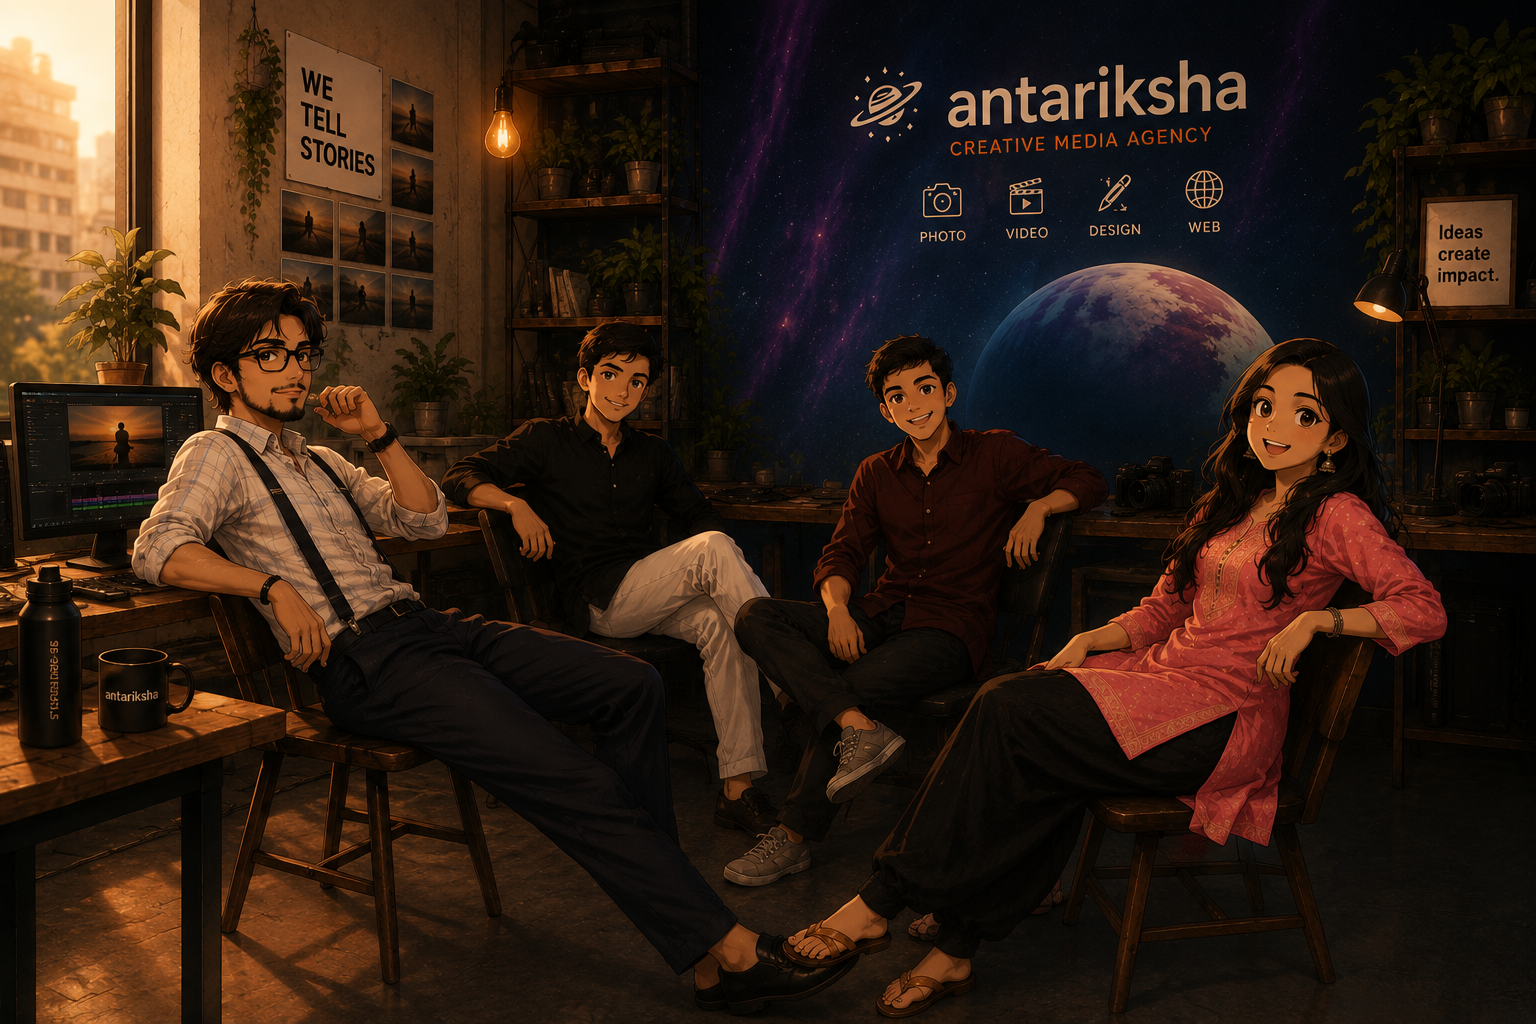
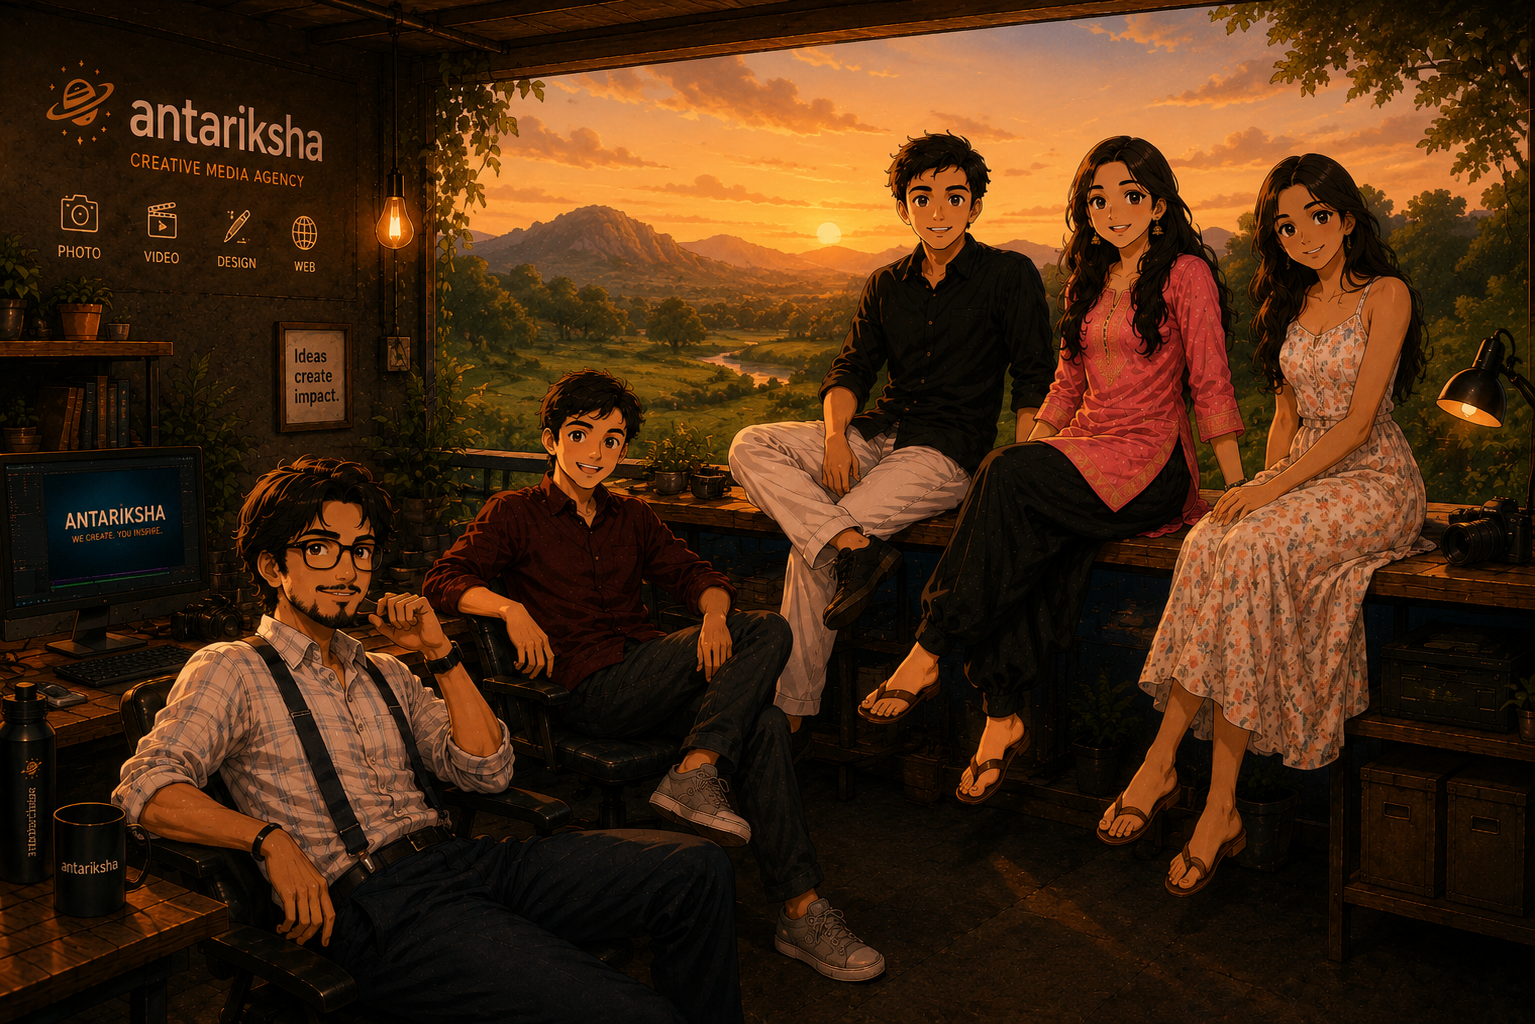
feat: add disha panel, update hero images and team page

diff --git a/app/team/page.tsx b/app/team/page.tsx
@@ -113,6 +113,34 @@ const dipangshuRows: RowItem[] = [
     { title: "Editing", subtitle: "Refining visual narratives", maskTitle: "Cuts with Precision", maskSubtitle: "Enhancing rhythm, clarity, and emotion" },
 ];
 
+const dishaRows: RowItem[] = [
+    { title: "Disha Dutta", subtitle: "Founding member", maskTitle: "The Pulse", maskSubtitle: "Core member" },
+    {
+        title: "Video Editing",
+        subtitle: "Crafting polished and engaging visual sequences",
+        maskTitle: "Visual Flow",
+        maskSubtitle: "Refining pacing, transitions, and emotion"
+    },
+    {
+        title: "Team Collaboration",
+        subtitle: "Working effectively within creative environments",
+        maskTitle: "Creative Sync",
+        maskSubtitle: "Aligning ideas, workflow, and execution"
+    },
+    {
+        title: "Content Creation",
+        subtitle: "Producing engaging digital-first media",
+        maskTitle: "Media Craft",
+        maskSubtitle: "Building content designed to connect and perform"
+    },
+    {
+        title: "Creative Communication",
+        subtitle: "Presenting ideas with clarity and impact",
+        maskTitle: "Audience Connect",
+        maskSubtitle: "Translating vision into meaningful interaction"
+    },
+];
+
 const udayRows: RowItem[] = [
     { title: "Uday Senapati", subtitle: "Founding member", maskTitle: "The Architect", maskSubtitle: "Core member" },
     { title: "Modern Web Experiences", subtitle: "Creating immersive digital interaction", maskTitle: "Experiences that Engage", maskSubtitle: "Blending motion, design, and functionality" },
@@ -127,16 +155,18 @@ export default function Team() {
     const stackRef = useRef<HTMLDivElement>(null);
     const navigate = useNavigate();
 
-    const firedRef = useRef([false, false, false, false, false]);
+    const firedRef = useRef([false, false, false, false, false, false]);
 
     const tuhinRowsRef = useRef<HTMLDivElement>(null);
     const annyeshaRowsRef = useRef<HTMLDivElement>(null);
     const dipangshuRowsRef = useRef<HTMLDivElement>(null);
+    const dishaRowsRef = useRef<HTMLDivElement>(null);
     const udayRowsRef = useRef<HTMLDivElement>(null);
 
     const tuhinImgRef = useRef<HTMLImageElement>(null);
     const annyeshaImgRef = useRef<HTMLImageElement>(null);
     const dipangshuImgRef = useRef<HTMLImageElement>(null);
+    const dishaImgRef = useRef<HTMLImageElement>(null);
     const udayImgRef = useRef<HTMLImageElement>(null);
 
     const contactAccent = useRef<HTMLDivElement>(null);
@@ -205,7 +235,7 @@ export default function Team() {
     }
 
     function handleScrollProgress(progress: number) {
-        const step = 1 / 5;
+        const step = 1 / 6;
         const fired = firedRef.current;
 
         if (!fired[0] && progress >= step * 0.85) {
@@ -222,10 +252,14 @@ export default function Team() {
         }
         if (!fired[3] && progress >= step * 3.85) {
             fired[3] = true;
-            animatePanel(udayRowsRef.current, udayImgRef.current);
+            animatePanel(dishaRowsRef.current, dishaImgRef.current);
         }
         if (!fired[4] && progress >= step * 4.85) {
             fired[4] = true;
+            animatePanel(udayRowsRef.current, udayImgRef.current);
+        }
+        if (!fired[5] && progress >= step * 5.85) {
+            fired[5] = true;
             animateContact();
         }
     }
@@ -238,6 +272,7 @@ export default function Team() {
 
             <StackScroll stackRef={stackRef} onScrollProgress={handleScrollProgress}>
 
+                {/* Hero panel */}
                 <section className="-z-10 stack-panel absolute inset-0 h-screen w-full overflow-hidden">
                     <Image
                         src="/members.png"
@@ -305,6 +340,7 @@ export default function Team() {
                     </div>
                 </section>
 
+                {/* Tuhin panel */}
                 <section data-cursor="none" className="bg-[#141414] stack-panel absolute inset-0 h-screen w-full flex flex-col overflow-hidden">
                     <Image
                         ref={tuhinImgRef}
@@ -325,6 +361,7 @@ export default function Team() {
                     </div>
                 </section>
 
+                {/* Annyesha panel */}
                 <section data-cursor="none" className="stack-panel absolute inset-0 h-screen w-full bg-[#0f0f0f] flex flex-col overflow-hidden">
                     <Image
                         ref={annyeshaImgRef}
@@ -345,6 +382,7 @@ export default function Team() {
                     </div>
                 </section>
 
+                {/* Dipangshu panel */}
                 <section data-cursor="none" className="stack-panel absolute inset-0 h-screen w-full bg-[#141414] flex flex-col overflow-hidden">
                     <Image
                         ref={dipangshuImgRef}
@@ -365,19 +403,20 @@ export default function Team() {
                     </div>
                 </section>
 
+                {/* Disha panel */}
                 <section data-cursor="none" className="stack-panel absolute inset-0 h-screen w-full bg-[#0f0f0f] flex flex-col overflow-hidden">
                     <Image
-                        ref={udayImgRef}
-                        src="/uday.png"
-                        alt="Uday"
+                        ref={dishaImgRef}
+                        src="/disha.png"
+                        alt="Disha"
                         width={400}
                         height={400}
                         loading="lazy"
                         className="grayscale absolute bottom-0 left-1/2 -translate-x-1/2 lg:left-0 lg:translate-x-0 pointer-events-none w-full sm:w-[55vw] lg:w-140 h-auto"
                         style={{ opacity: 0 }}
                     />
-                    <div ref={udayRowsRef} className="w-full h-full flex flex-col">
-                        {udayRows.map((row) => (
+                    <div ref={dishaRowsRef} className="w-full h-full flex flex-col">
+                        {dishaRows.map((row) => (
                             <div key={row.title} className="panel-row flex-1 flex flex-col" style={{ opacity: 0 }}>
                                 <HoverRow {...row} align="right" />
                             </div>
@@ -385,6 +424,28 @@ export default function Team() {
                     </div>
                 </section>
 
+                {/* Uday panel */}
+                <section data-cursor="none" className="stack-panel absolute inset-0 h-screen w-full bg-[#141414] flex flex-col overflow-hidden">
+                    <Image
+                        ref={udayImgRef}
+                        src="/uday.png"
+                        alt="Uday"
+                        width={400}
+                        height={400}
+                        loading="lazy"
+                        className="absolute bottom-0 left-1/2 -translate-x-1/2 lg:left-auto lg:translate-x-0 lg:right-0 pointer-events-none w-100 lg:w-150 h-auto"
+                        style={{ opacity: 0 }}
+                    />
+                    <div ref={udayRowsRef} className="w-full h-full flex flex-col">
+                        {udayRows.map((row) => (
+                            <div key={row.title} className="panel-row flex-1 flex flex-col" style={{ opacity: 0 }}>
+                                <HoverRow {...row} align="left" />
+                            </div>
+                        ))}
+                    </div>
+                </section>
+
+                {/* Contact panel */}
                 <section className="z-20 stack-panel absolute inset-0 h-screen w-full bg-[#0D0C0B] flex items-center overflow-hidden">
                     <div className={contactInnerCls}>
                         <div
